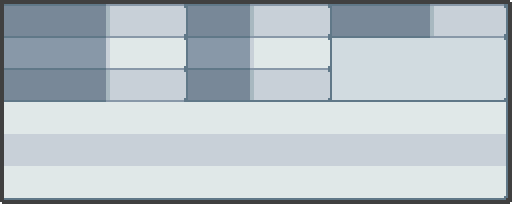
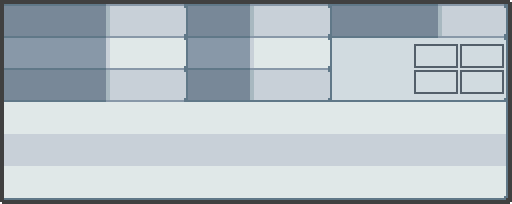
Graphical targeting data in battle move info panel, "Other" move targeting all replaced by "NearOther"
Also finally got Doll Stitch working as a "can target literally anyone, even the user" move

Changed region(s): [[0.8125, 0.0, 1.0, 0.4706], [0.7812, 0.3529, 0.8125, 0.4412], [0.7812, 0.2353, 0.8125, 0.3235]]

diff --git a/Plugins/Miscellaneous/GameData/Target.rb b/Plugins/Miscellaneous/GameData/Target.rb
@@ -12,6 +12,8 @@ module GameData
         attr_reader :real_name
         attr_reader :num_targets        # 0, 1 or 2 (meaning 2+)
         attr_reader :targets_foe        # Is able to target one or more foes
+        attr_reader :targets_user       # Is able to target the user
+        attr_reader :targets_ally       # Is able to target the user's ally
         attr_reader :targets_all        # Crafty Shield can't protect from these moves
         attr_reader :affects_foe_side   # Pressure also affects these moves
         attr_reader :long_range         # Hits non-adjacent targets
@@ -25,13 +27,16 @@ module GameData
         def self.save; end
 
         def initialize(hash)
-            @id               = hash[:id]
-            @real_name        = hash[:name]             || "Unnamed"
-            @num_targets      = hash[:num_targets]      || 0
-            @targets_foe      = hash[:targets_foe]      || false
-            @targets_all      = hash[:targets_all]      || false
-            @affects_foe_side = hash[:affects_foe_side] || false
-            @long_range       = hash[:long_range]       || false
+            @id                 = hash[:id]
+            @real_name          = hash[:name]             || "Unnamed"
+            @num_targets        = hash[:num_targets]      || 0
+            @targets_foe        = hash[:targets_foe]      || false
+            @targets_user       = hash[:targets_user]     || false
+            @targets_ally       = hash[:targets_ally]     || false
+            @targets_all        = hash[:targets_all]      || false
+            @affects_foe_side   = hash[:affects_foe_side] || false
+            @affects_user_side  = hash[:affects_user_side] || false
+            @long_range         = hash[:long_range]       || false
         end
 
         # @return [String] the translated name of this target
@@ -45,6 +50,21 @@ module GameData
 
         def can_target_one_foe?
             return @num_targets == 1 && @targets_foe
+        end
+
+        ###########################################################################################
+        # Methods to determine what to highlight in graphics that explain how a move targets
+        ###########################################################################################
+        def show_foe_targeting?
+            return @targets_foe || @affects_foe_side || @targets_all
+        end
+
+        def show_user_targeting?
+            return @targets_user || @affects_user_side || @targets_all
+        end
+
+        def show_ally_targeting?
+            return @targets_ally || @affects_user_side || @targets_all
         end
     end
 end
@@ -62,6 +82,7 @@ GameData::Target.register({
     :id               => :User,
     :id_number        => 10,
     :name             => _INTL("User"),
+    :targets_user     => true,
 })
 
 # Aromatic Mist, Helping Hand, Hold Hands
@@ -70,6 +91,7 @@ GameData::Target.register({
     :id_number        => 100,
     :name             => _INTL("Near Ally"),
     :num_targets      => 1,
+    :targets_ally     => true,
 })
 
 # Acupressure
@@ -78,6 +100,8 @@ GameData::Target.register({
     :id_number        => 200,
     :name             => _INTL("User or Near Ally"),
     :num_targets      => 1,
+    :targets_user     => true,
+    :targets_ally     => true,
 })
 
 # Aromatherapy, Gear Up, Heal Bell, Life Dew, Magnetic Flux, Howl (in Gen 8+)
@@ -87,6 +111,8 @@ GameData::Target.register({
     :name             => _INTL("User and Allies"),
     :num_targets      => 2,
     :long_range       => true,
+    :targets_user     => true,
+    :targets_ally     => true,
 })
 
 # Me First
@@ -169,6 +195,7 @@ GameData::Target.register({
     :num_targets      => 2,
     :targets_foe      => true,
     :targets_all      => true,
+    :targets_user     => true,
     :long_range       => true,
 })
 
@@ -176,6 +203,7 @@ GameData::Target.register({
     :id               => :UserSide,
     :id_number        => 40,
     :name             => _INTL("User Side"),
+    :affects_user_side => true,
 })
 
 # Entry hazards
@@ -191,6 +219,18 @@ GameData::Target.register({
     :id_number        => 20,
     :name             => _INTL("Both Sides"),
     :affects_foe_side => true,
+    :affects_user_side => true,
+})
+
+GameData::Target.register({
+    :id               => :UserOrNearOther,
+    :id_number        => 21,
+    :name             => _INTL("User Or Near Other"),
+    :targets_foe      => true,
+    :targets_user     => true,
+    :targets_ally     => true,
+    :num_targets      => 1,
+
 })
 
 # Create the targeting category used for the Info button
@@ -201,4 +241,5 @@ GameData::Target.register({
     :targets_foe      => true,
     :long_range       => true,
     :num_targets      => 1,
+    :targets_user     => true,
 })

diff --git a/Plugins/Battle/Scene/SceneMenus/FightMenuDisplay.rb b/Plugins/Battle/Scene/SceneMenus/FightMenuDisplay.rb
@@ -367,7 +367,7 @@ class FightMenuDisplay < BattleMenuBase
         
         # Write power and accuracy values for selected move
         # Write various bits of text
-        moveInfoColumn1LabelX = 14
+        moveInfoColumn1LabelX = 8
         moveInfoColumn2LabelX = moveInfoColumn1LabelX + 184
         moveInfoColumn3LabelX = moveInfoColumn2LabelX + 184 - 40
 
@@ -395,15 +395,15 @@ class FightMenuDisplay < BattleMenuBase
         textpos.concat(
           [
             [_INTL("PRIORITY"),moveInfoColumn3LabelX,0,0,base,shadow],
-            [_INTL("TARGETING"),moveInfoColumn3LabelX,32,0,base,shadow],
+            [_INTL("TARGET"),moveInfoColumn3LabelX,32,0,base,shadow],
           ]
         )
         
         base = Color.new(64,64,64)
         shadow = Color.new(176,176,176)
-        moveInfoColumn1ValueX = moveInfoColumn1LabelX + 128
-        moveInfoColumn2ValueX = moveInfoColumn2LabelX + 128 - 40
-        moveInfoColumn3ValueX = moveInfoColumn3LabelX + 128
+        moveInfoColumn1ValueX = moveInfoColumn1LabelX + 134
+        moveInfoColumn2ValueX = moveInfoColumn2LabelX + 134 - 40
+        moveInfoColumn3ValueX = moveInfoColumn3LabelX + 134
 
         # Column 1
         # Draw selected move's damage category icon and type icon
@@ -439,13 +439,55 @@ class FightMenuDisplay < BattleMenuBase
         # Priority
         priorityLabel = move.priority.to_s
         priorityLabel = "+" + priorityLabel if move.priority > 0
-        priorityLabel = "-" + priorityLabel if move.priority < 0
-        textpos.push([priorityLabel,moveInfoColumn3ValueX, 0, 2, move.priority != 0 ? base : faded_base, shadow])
+        textpos.push([priorityLabel,moveInfoColumn3ValueX + 6, 0, 2, move.priority != 0 ? base : faded_base, shadow])
         # Targeting
-        textpos.push([GameData::Target.get(moveData.target).real_name,moveInfoColumn3LabelX + 12, 64, 0, base, shadow])
+        targetingData = GameData::Target.get(moveData.target)
+        targetingLabel = ""
+        if targetingData.targets_all
+          targetingLabel = "All"
+        elsif targetingData.id == :UserAndAllies
+          targetingLabel = "Us"
+        elsif targetingData.id == :RandomNearFoe
+          targetingLabel = "Random"
+        elsif targetingData.num_targets > 1
+          targetingLabel = "Each"
+        elsif targetingData.num_targets == 1
+          targetingLabel = "One"
+        end
+        textpos.push([targetingLabel,moveInfoColumn3LabelX + 4, 64, 0, base, shadow])
+
+        # Targeting graphic
+        targetingGraphicTextPos = []
+        targetingGraphicColumn1X = moveInfoColumn3LabelX + 84
+        targetingGraphicColumn2X = targetingGraphicColumn1X + 46
+        targetingGraphicRow1Y = 38
+        targetingGraphicRow2Y = targetingGraphicRow1Y + 26
+
+        targetableColor = Color.new(120,5,5)
+        untargetableColor = faded_base
+
+        # Foes
+        foeColor = targetingData.show_foe_targeting? ? targetableColor : untargetableColor
+        targetingGraphicTextPos.push(["Foe",targetingGraphicColumn1X, targetingGraphicRow1Y, 0, foeColor, shadow])
+        targetingGraphicTextPos.push(["Foe",targetingGraphicColumn2X, targetingGraphicRow1Y, 0, foeColor, shadow])
+
+        # User
+        userColor = targetingData.show_user_targeting? ? targetableColor : untargetableColor
+        targetingGraphicTextPos.push(["User",targetingGraphicColumn1X, targetingGraphicRow2Y, 0, userColor, shadow])
         
+        # Ally
+        allyColor = targetingData.show_ally_targeting? ? targetableColor : untargetableColor
+        targetingGraphicTextPos.push(["Ally",targetingGraphicColumn2X, targetingGraphicRow2Y, 0, allyColor, shadow])
+        
+        # Draw the targeting graphic text
+        pbSetNarrowFont(overlay)
+        overlay.font.size = 20
+        pbDrawTextPositions(overlay, targetingGraphicTextPos)
+        pbSetSystemFont(overlay)
+
         # Draw all text
         pbDrawTextPositions(overlay, textpos)
+
         # Draw selected move's description
         drawTextEx(overlay,8,96 + 12,500,4,moveData.description,base,shadow)
     end

diff --git a/Plugins/Battle/Scene/PokeBattle_Scene_Commands.rb b/Plugins/Battle/Scene/PokeBattle_Scene_Commands.rb
@@ -519,7 +519,7 @@ class PokeBattle_Scene
         indices = @battle.pbGetOpposingIndicesInOrder(idxBattler)
         indices.each { |i| return i if @battle.nearBattlers?(i,idxBattler) && !@battle.battlers[i].fainted? }
         indices.each { |i| return i if @battle.nearBattlers?(i,idxBattler) }
-      when :Foe, :Other, :UserOrOther
+      when :Foe, :Other, :UserOrOther, :UserOrNearOther
         indices = @battle.pbGetOpposingIndicesInOrder(idxBattler)
         indices.each { |i| return i if !@battle.battlers[i].fainted? }
         indices.each { |i| return i }
@@ -565,12 +565,12 @@ class PokeBattle_Scene
               cw.index = idxBattlerTry
               break
             end
-      elsif Input.trigger?(Input::ACTION) && dexSelect
-        pbFadeOutIn {
-          scene = PokemonPokedex_Scene.new
-          screen = PokemonPokedexScreen.new(scene)
-          screen.pbStartScreen
-        }
+        elsif Input.trigger?(Input::ACTION) && dexSelect
+          pbFadeOutIn {
+            scene = PokemonPokedex_Scene.new
+            screen = PokemonPokedexScreen.new(scene)
+            screen.pbStartScreen
+          }
           end
           if cw.index!=oldIndex
             pbPlayCursorSE

diff --git a/Plugins/Battle/Battle/Phases/Battle_Phase_Command.rb b/Plugins/Battle/Battle/Phases/Battle_Phase_Command.rb
@@ -98,11 +98,12 @@ class PokeBattle_Battle
                 pbRegisterShift(idxBattler)
                 ret = true
             else      # Chose a move to use
-                next false if cmd < 0 || !@battlers[idxBattler].moves[cmd] ||
-                              !@battlers[idxBattler].moves[cmd].id
+                move = @battlers[idxBattler].moves[cmd]
+                next false if cmd < 0 || move.nil? || move.id.nil?
                 next false unless pbRegisterMove(idxBattler, cmd)
-                next false if !singleBattle? &&
-                              !pbChooseTarget(@battlers[idxBattler], @battlers[idxBattler].moves[cmd])
+                target_data = move.pbTarget(battler)
+                next false if (!singleBattle? || target_data.id == :UserOrNearOther) &&
+                              !pbChooseTarget(@battlers[idxBattler], move)
                 ret = true
             end
             next true

diff --git a/Plugins/Battle/Battler/Battler_UseMove_Targeting.rb b/Plugins/Battle/Battler/Battler_UseMove_Targeting.rb
@@ -47,6 +47,10 @@ move, true, true)
         when :UserAndAllies
             pbAddTarget(targets, user, user, move, true, true)
             @battle.eachSameSideBattler(user.index) { |b| pbAddTarget(targets, user, b, move, false, true) }
+        when :UserOrNearOther
+            targetBattler = (preTarget >= 0) ? @battle.battlers[preTarget] : nil
+            pbAddTarget(targets, user, user, move, false, true) unless pbAddTarget(targets, user, targetBattler,
+move, false, true)
         when :NearFoe, :NearOther
             targetBattler = (preTarget >= 0) ? @battle.battlers[preTarget] : nil
             unless pbAddTarget(targets, user, targetBattler, move)

diff --git a/Plugins/Battle/Battle/Actions/Battle_Action_AttacksPriority.rb b/Plugins/Battle/Battle/Actions/Battle_Action_AttacksPriority.rb
@@ -110,6 +110,9 @@ class PokeBattle_Battle
             return false unless nearBattlers?(idxUser, idxTarget)
         when :UserAndAllies
             return false if opposes?(idxUser, idxTarget)
+        when :UserOrNearOther
+            return true if idxUser == idxTarget
+            return false unless nearBattlers?(idxUser, idxTarget)
         when :NearFoe, :RandomNearFoe, :AllNearFoes
             return false unless opposes?(idxUser, idxTarget)
             return false unless nearBattlers?(idxUser, idxTarget)
